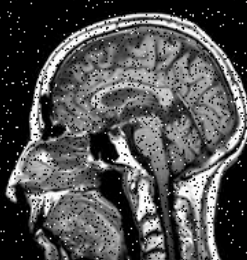
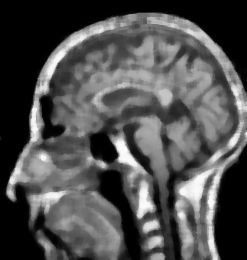
fix: changed the median filter on task03 and removed unnecessary lines

diff --git a/tasks/task-03-filtering-sp-noise/task-03-filtering-sp-noise.py b/tasks/task-03-filtering-sp-noise/task-03-filtering-sp-noise.py
@@ -1,26 +1,5 @@
 import cv2 as cv
 import numpy as np
-def median_filter(image: np.ndarray, kernel_size: int = 5) -> np.ndarray:
-    """
-    Applies a median filter to the input image.
-
-    Parameters:
-        image (np.ndarray): Input image (grayscale).
-        kernel_size (int): Size of the median filter kernel.
-
-    Returns:
-        np.ndarray: Filtered image.
-    """
-    pad_size = kernel_size // 2
-    padded_image = np.pad(image, ((pad_size, pad_size), (pad_size, pad_size)), mode='edge')
-    filtered_image = np.zeros_like(image)
-    for i in range(image.shape[0]):
-        for j in range(image.shape[1]):
-            # Extract the kernel region
-            kernel_region = padded_image[i:i + kernel_size, j:j + kernel_size]
-            # Compute the median of the kernel region
-            filtered_image[i, j] = np.median(kernel_region)
-    return filtered_image 
 
 def remove_salt_and_pepper_noise(image: np.ndarray) -> np.ndarray:
     """
@@ -32,9 +11,20 @@ def remove_salt_and_pepper_noise(image: np.ndarray) -> np.ndarray:
     Returns:
         np.ndarray: Denoised image.
     """
-    #image_filtered = cv.medianBlur(image, 5)  # Example of a simple median filter
+    #image_filtered = cv.medianBlur(image, 5)  # Example of a simple median filter 
     # TODO: Implement noise removal here (e.g., median filtering)
-    image_filtered = median_filter(image, kernel_size=7)
+    kernel_size = 7  # Size of the median filter kernel
+    pad_size = kernel_size // 2
+    padded_image = np.pad(image, ((pad_size, pad_size), (pad_size, pad_size)), mode='edge')
+    filtered_image = np.zeros_like(image)
+    for i in range(image.shape[0]):
+        for j in range(image.shape[1]):
+            # Extract the kernel region
+            kernel_region = padded_image[i:i + kernel_size, j:j + kernel_size]
+            # Compute the median of the kernel region
+            filtered_image[i, j] = np.median(kernel_region)
+    image = filtered_image  
+
     # Display the original and filtered images
     #cv.imshow('Filtered Image',image)
     #cv.waitKey(0)
